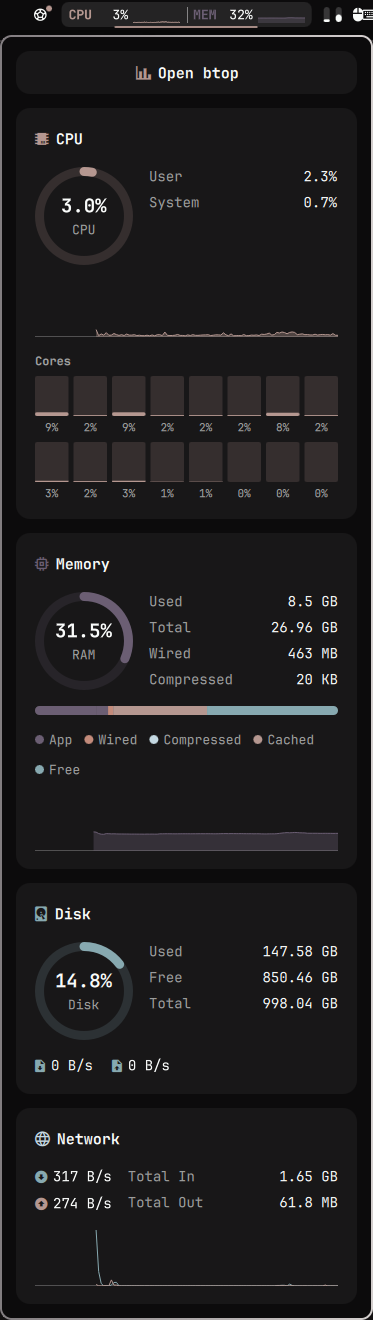
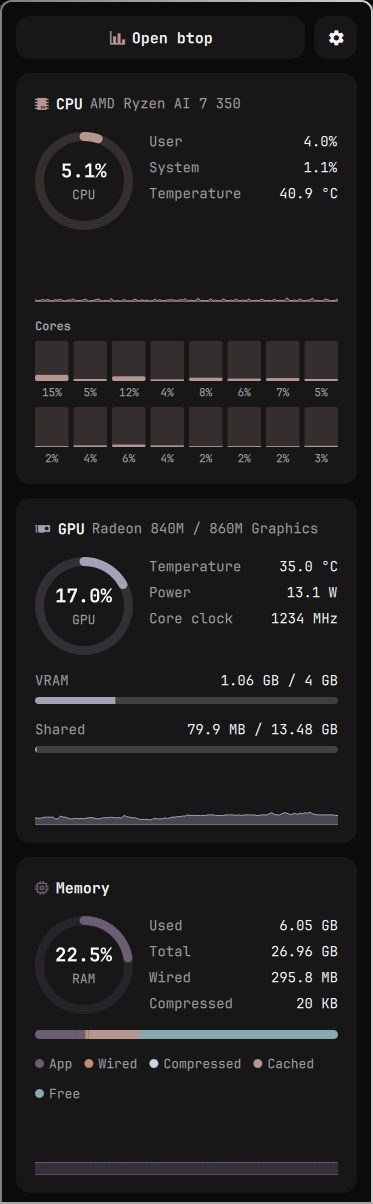
feat: add a GPU module to the bar and in-panel bar settings (#3)

diff --git a/Panel.qml b/Panel.qml
@@ -7,8 +7,8 @@ import qs.Ui
 import "Model.js" as Model
 
 // System Monitor: an Omarchy port of the macOS menu bar app
-// (github.com/juancasanueva/SWIFTUI_system_monitor). The bar shows CPU and
-// memory with a sparkline each; the panel shows the CPU, GPU, Memory, Disk
+// (github.com/juancasanueva/SWIFTUI_system_monitor). The bar shows CPU, GPU
+// and memory with a sparkline each; the panel shows the CPU, GPU, Memory, Disk
 // and Network cards.
 Panel {
   id: root
@@ -17,12 +17,8 @@ Panel {
 
   readonly property bool showCpu: setting("showCpu", true) !== false
   readonly property bool showMemory: setting("showMemory", true) !== false
-  readonly property var barModules: {
-    var list = []
-    if (root.showCpu) list.push("cpu")
-    if (root.showMemory) list.push("memory")
-    return list
-  }
+  readonly property bool showGpu: setting("showGpu", true) !== false
+  readonly property var barModules: Model.barModules(root.showCpu, root.showMemory, root.showGpu, root.gpu !== null)
 
   readonly property string fontFamily: root.bar ? root.bar.fontFamily : Style.font.family
   readonly property string dp: Qt.locale().decimalPoint
@@ -234,7 +230,32 @@ Panel {
     refreshDisk()
   }
 
-  onOpenedChanged: if (root.opened) root.refreshDisk()
+  onOpenedChanged: {
+    if (root.opened) root.refreshDisk()
+    else root.settingsOpen = false
+  }
+
+  // --- settings --------------------------------------------------------------
+
+  property bool settingsOpen: false
+  property string settingsStatus: ""
+
+  // Saved through the shell into this widget's shell.json entry; the host
+  // hands the new entry back as `settings`, which moves the bar and switches.
+  function setBarSwitch(key, value) {
+    if (Model.shown(root.settings, key) === value) return
+    var next = Model.withBarSetting(root.settings, key, value, root.gpu !== null)
+    if (!next) {
+      root.settingsStatus = "At least one module stays on the bar"
+      return
+    }
+    var api = root.bar ? root.bar.shell : null
+    if (!api || typeof api.updateEntryInline !== "function") {
+      root.settingsStatus = "Could not save: no shell connection"
+      return
+    }
+    root.settingsStatus = api.updateEntryInline(root.moduleName, next) === true ? "" : "Could not save the setting"
+  }
 
   // Kernel-generated files of a few kilobytes; a blocking read is immediate.
   FileView { id: statFile; path: "/proc/stat"; blockAllReads: true; printErrors: false }
@@ -318,14 +339,18 @@ Panel {
   implicitWidth: button.implicitWidth
   implicitHeight: button.implicitHeight
 
-  function moduleLabel(module) { return module === "cpu" ? "CPU" : "MEM" }
-  function moduleAccent(module) { return module === "cpu" ? root.pal.cpuAccent : root.pal.memAccent }
+  function moduleLabel(module) { return module === "cpu" ? "CPU" : (module === "gpu" ? "GPU" : "MEM") }
+  function moduleAccent(module) {
+    if (module === "cpu") return root.pal.cpuAccent
+    return module === "gpu" ? root.pal.gpuAccent : root.pal.memAccent
+  }
   function moduleFraction(module) {
     if (module === "cpu") return root.cpu ? root.cpu.total : 0
+    if (module === "gpu") return root.gpu ? root.gpu.busy : 0
     return root.memory ? root.memory.fraction : 0
   }
   function moduleSamples(module) {
-    var history = module === "cpu" ? root.cpuHistory : root.memoryHistory
+    var history = module === "cpu" ? root.cpuHistory : (module === "gpu" ? root.gpuHistory : root.memoryHistory)
     return history.slice(Math.max(0, history.length - Model.BAR_SAMPLES))
   }
 
@@ -337,7 +362,7 @@ Panel {
     hasVisualContent: root.barModules.length > 0
     fixedWidth: vertical ? -1 : barCard.width + Style.space(8)
     fixedHeight: vertical ? barColumn.implicitHeight + Style.space(12) : -1
-    tooltipText: Model.tooltip(root.cpu, root.memory, root.dp) + "\nClick for details · Right-click: btop"
+    tooltipText: Model.tooltip(root.cpu, root.memory, root.gpu, root.dp) + "\nClick for details · Right-click: btop"
     onPressed: function(b) {
       if (b === Qt.RightButton) root.openBtop()
       else root.toggle()
@@ -494,52 +519,86 @@ Panel {
             width: parent.width
             spacing: Style.space(12)
 
-            Rectangle {
-              id: btopButton
+            Row {
               width: cards.width
-              height: btopLabel.implicitHeight + Style.space(20)
-              radius: Style.space(12)
-              color: btopMouse.containsMouse ? Qt.alpha(root.pal.textPrimary, 0.10) : root.pal.cardBackground
+              spacing: Style.space(8)
 
-              Row {
-                anchors.centerIn: parent
-                spacing: Style.space(6)
+              Rectangle {
+                id: btopButton
+                width: cards.width - settingsButton.width - parent.spacing
+                height: btopLabel.implicitHeight + Style.space(20)
+                radius: Style.space(12)
+                color: btopMouse.containsMouse ? Qt.alpha(root.pal.textPrimary, 0.10) : root.pal.cardBackground
 
-                Text {
-                  textFormat: Text.PlainText
-                  text: Model.glyphs.activity
-                  color: root.pal.cpuAccent
-                  font.family: root.fontFamily
-                  font.pixelSize: Style.space(15)
-                  anchors.verticalCenter: parent.verticalCenter
+                Row {
+                  anchors.centerIn: parent
+                  spacing: Style.space(6)
+
+                  Text {
+                    textFormat: Text.PlainText
+                    text: Model.glyphs.activity
+                    color: root.pal.cpuAccent
+                    font.family: root.fontFamily
+                    font.pixelSize: Style.space(15)
+                    anchors.verticalCenter: parent.verticalCenter
+                  }
+
+                  Text {
+                    id: btopLabel
+                    textFormat: Text.PlainText
+                    text: "Open btop"
+                    color: root.pal.textPrimary
+                    font.family: root.fontFamily
+                    font.pixelSize: Style.space(13)
+                    font.weight: Font.DemiBold
+                    anchors.verticalCenter: parent.verticalCenter
+                  }
                 }
 
-                Text {
-                  id: btopLabel
-                  textFormat: Text.PlainText
-                  text: "Open btop"
-                  color: root.pal.textPrimary
-                  font.family: root.fontFamily
-                  font.pixelSize: Style.space(13)
-                  font.weight: Font.DemiBold
-                  anchors.verticalCenter: parent.verticalCenter
+                MouseArea {
+                  id: btopMouse
+                  anchors.fill: parent
+                  hoverEnabled: true
+                  cursorShape: Qt.PointingHandCursor
+                  onClicked: root.openBtop()
                 }
               }
 
-              MouseArea {
-                id: btopMouse
-                anchors.fill: parent
-                hoverEnabled: true
-                cursorShape: Qt.PointingHandCursor
-                onClicked: root.openBtop()
+              Rectangle {
+                id: settingsButton
+                width: height
+                height: btopButton.height
+                radius: Style.space(12)
+                color: settingsMouse.containsMouse || root.settingsOpen ? Qt.alpha(root.pal.textPrimary, 0.10) : root.pal.cardBackground
+
+                Text {
+                  anchors.centerIn: parent
+                  textFormat: Text.PlainText
+                  text: Model.glyphs.settings
+                  color: root.settingsOpen ? root.pal.cpuAccent : root.pal.textPrimary
+                  font.family: root.fontFamily
+                  font.pixelSize: Style.space(15)
+                }
+
+                MouseArea {
+                  id: settingsMouse
+                  anchors.fill: parent
+                  hoverEnabled: true
+                  cursorShape: Qt.PointingHandCursor
+                  onClicked: {
+                    root.settingsStatus = ""
+                    root.settingsOpen = !root.settingsOpen
+                  }
+                }
               }
             }
 
-            CpuCard { width: cards.width }
-            GpuCard { width: cards.width; visible: root.gpu !== null }
-            MemoryCard { width: cards.width }
-            DiskCard { width: cards.width }
-            NetworkCard { width: cards.width }
+            SettingsCard { width: cards.width; visible: root.settingsOpen }
+            CpuCard { width: cards.width; visible: !root.settingsOpen }
+            GpuCard { width: cards.width; visible: !root.settingsOpen && root.gpu !== null }
+            MemoryCard { width: cards.width; visible: !root.settingsOpen }
+            DiskCard { width: cards.width; visible: !root.settingsOpen }
+            NetworkCard { width: cards.width; visible: !root.settingsOpen }
           }
         }
       }
@@ -756,6 +815,67 @@ Panel {
           }
         }
       }
+    }
+  }
+
+  component SettingsCard: Card {
+    CardHeader { width: parent.width; glyph: Model.glyphs.settings; title: "Bar"; detail: "Modules shown in the bar"; accent: root.pal.cpuAccent }
+
+    Repeater {
+      model: Model.barSwitches(root.settings, root.gpu !== null)
+
+      Item {
+        required property var modelData
+        width: parent.width
+        height: Math.max(switchLabel.implicitHeight, toggle.height)
+        opacity: modelData.enabled ? 1 : 0.5
+
+        Column {
+          anchors.left: parent.left
+          anchors.verticalCenter: parent.verticalCenter
+          spacing: Style.space(2)
+
+          Text {
+            id: switchLabel
+            textFormat: Text.PlainText
+            text: modelData.label
+            color: root.pal.textPrimary
+            font.family: root.fontFamily
+            font.pixelSize: Style.space(13)
+          }
+
+          Text {
+            visible: modelData.note !== ""
+            textFormat: Text.PlainText
+            text: modelData.note
+            color: root.pal.textSecondary
+            font.family: root.fontFamily
+            font.pixelSize: Style.space(11)
+          }
+        }
+
+        ToggleSwitch {
+          id: toggle
+          anchors.right: parent.right
+          anchors.verticalCenter: parent.verticalCenter
+          checked: modelData.checked
+          interactive: modelData.enabled
+          foreground: root.pal.textPrimary
+          accent: root.pal.cpuAccent
+          onToggled: root.setBarSwitch(modelData.key, !modelData.checked)
+        }
+      }
+    }
+
+    Text {
+      visible: root.settingsStatus !== ""
+      width: parent.width
+      wrapMode: Text.Wrap
+      textFormat: Text.PlainText
+      text: root.settingsStatus
+      color: Commons.Color.urgent
+      font.family: root.fontFamily
+      font.pixelSize: Style.space(11)
     }
   }
 

diff --git a/Model.js b/Model.js
@@ -88,7 +88,8 @@ var glyphs = {
   write: String.fromCodePoint(0xF0A4D),     // md-file_upload
   download: String.fromCodePoint(0xF0047),  // md-arrow_down_bold_circle
   upload: String.fromCodePoint(0xF005F),    // md-arrow_up_bold_circle
-  activity: String.fromCodePoint(0xF0128)   // md-chart_line
+  activity: String.fromCodePoint(0xF0128),  // md-chart_line
+  settings: String.fromCodePoint(0xF0493)   // md-cog
 }
 
 var BAR_SAMPLES = 60
@@ -709,6 +710,55 @@ function throughput(bytesPerSecond, dp) {
   return decimal(value, unit === 0 ? 0 : 1, dp) + " " + units[unit] + "/s"
 }
 
-function tooltip(cpu, memory, dp) {
-  return "CPU " + percent1(cpu ? cpu.total : 0, dp) + " · Memory " + percent1(memory ? memory.fraction : 0, dp)
+// Bar modules in panel order. The GPU module needs a GPU the card can read.
+function barModules(showCpu, showMemory, showGpu, hasGpu) {
+  var list = []
+  if (showCpu) list.push("cpu")
+  if (showGpu && hasGpu) list.push("gpu")
+  if (showMemory) list.push("memory")
+  return list
+}
+
+// --- Bar settings ----------------------------------------------------------
+
+var BAR_SWITCHES = [
+  { key: "showCpu", label: "CPU" },
+  { key: "showGpu", label: "GPU" },
+  { key: "showMemory", label: "MEM" }
+]
+
+// A missing key means shown, as the manifest defaults say.
+function shown(settings, key) {
+  return !settings || settings[key] !== false
+}
+
+function barSwitches(settings, hasGpu) {
+  var out = []
+  for (var i = 0; i < BAR_SWITCHES.length; i++) {
+    var s = BAR_SWITCHES[i]
+    var noGpu = s.key === "showGpu" && !hasGpu
+    out.push({ key: s.key, label: s.label, checked: shown(settings, s.key), enabled: !noGpu, note: noGpu ? "No supported GPU" : "" })
+  }
+  return out
+}
+
+// The widget's whole shell.json entry (without its id) with one bar switch
+// changed; the host replaces the entry rather than merging. Null for an
+// unknown key, or when the change would leave the bar empty: the widget would
+// vanish and the panel holding these switches with it.
+function withBarSetting(settings, key, value, hasGpu) {
+  var known = false
+  for (var i = 0; i < BAR_SWITCHES.length; i++) if (BAR_SWITCHES[i].key === key) known = true
+  if (!known) return null
+  var next = {}
+  for (var k in settings) next[k] = settings[k]
+  next[key] = value === true
+  if (barModules(shown(next, "showCpu"), shown(next, "showMemory"), shown(next, "showGpu"), hasGpu).length === 0) return null
+  return next
+}
+
+function tooltip(cpu, memory, gpu, dp) {
+  var text = "CPU " + percent1(cpu ? cpu.total : 0, dp)
+  if (gpu) text += " · GPU " + percent1(gpu.busy, dp)
+  return text + " · Memory " + percent1(memory ? memory.fraction : 0, dp)
 }

diff --git a/README.md b/README.md
@@ -1,20 +1,21 @@
 # System Monitor
 
-CPU and memory with live sparklines in the Omarchy bar, and a panel with CPU, GPU, Memory, Disk and Network cards. A port of the macOS menu bar app [SWIFTUI_system_monitor](https://github.com/juancasanueva/SWIFTUI_system_monitor), with the same layout and number formats, coloured by your current Omarchy theme.
+CPU, GPU and memory with live sparklines in the Omarchy bar, and a panel with CPU, GPU, Memory, Disk and Network cards. A port of the macOS menu bar app [SWIFTUI_system_monitor](https://github.com/juancasanueva/SWIFTUI_system_monitor), with the same layout and number formats, coloured by your current Omarchy theme.
 
-<p align="center"><img src="preview.png?v=4" alt="System Monitor panel: CPU, Memory, Disk and Network cards" width="360"></p>
+<p align="center"><img src="preview.png?v=5" alt="System Monitor panel: CPU, GPU and Memory cards" width="360"></p>
 
 ## What it shows
 
-- **Bar**: `CPU 12% ▁▂▃` `|` `MEM 59% ▃▃▄` on a small card. Each value has a fixed width, so the bar never shifts. The last 60 samples feed each sparkline.
+- **Bar**: `CPU 12% ▁▂▃` `|` `GPU 16% ▁▁▂` `|` `MEM 59% ▃▃▄` on a small card. The GPU module appears only on AMD GPUs. Each value has a fixed width, so the bar never shifts. The last 60 samples feed each sparkline.
 - **CPU**: the CPU's model in the header, total usage ring, User, System and package temperature, a two-minute history graph, and one bar per logical core. On Intel hybrid CPUs, P-Cores and E-Cores are shown as separate groups with their own averages.
 - **GPU**: the GPU's name in the header, load ring, temperature, power draw and core clock (plus memory busy, memory clock and voltage where the GPU reports them), VRAM and shared memory with a usage bar each, and a history graph. AMD GPUs (`amdgpu` driver) only; the card is hidden on other GPUs.
 - **Memory**: usage ring, Used, Total, Wired and Compressed, a stacked bar (App, Wired, Compressed, Cached, Free) with its legend, and a history graph.
 - **Disk**: usage ring for `/`, Used, Free and Total, and read and write throughput.
 - **Network**: download and upload rates, totals since boot, and a shared-scale graph of both.
+- **Settings**: the gear next to **Open btop** switches the panel to the bar settings, where CPU, GPU and MEM can each be shown or hidden. Changes apply right away and are saved in `shell.json`.
 - **btop**: right-click the widget, or use **Open btop** at the top of the panel, to open btop in your terminal as a tiled window. If btop is already open from the widget, its window is focused instead. It uses Omarchy's TUI launcher with its own app id (`io.github.juancasanueva.btop`), so Omarchy's float rule for Super+Ctrl+T btop does not apply.
 
-The widget samples every 2 seconds, or every second while the panel is open. Disk capacity refreshes every 30 seconds and whenever the panel opens.
+When the cards do not fit the screen, the panel scrolls. The widget samples every 2 seconds, or every second while the panel is open. Disk capacity refreshes every 30 seconds and whenever the panel opens.
 
 ## Colours
 
@@ -58,18 +59,19 @@ If a theme defines none of these, its accent colour is used (and its urgent colo
 omarchy plugin add https://github.com/juancasanueva/omarchy-system-monitor.git --enable
 ```
 
-Settings, in the widget's `shell.json` entry or under Setup > Bar:
+Settings: click the gear next to **Open btop** in the panel and switch CPU, GPU and MEM on or off for the bar. The last module on the bar cannot be switched off, so the widget never disappears. The same keys can be set in the widget's `shell.json` entry or under Setup > Bar:
 
 | Key | Default | Effect |
 | --- | --- | --- |
 | `showCpu` | `true` | Show the CPU module in the bar |
 | `showMemory` | `true` | Show the MEM module in the bar |
+| `showGpu` | `true` | Show the GPU module in the bar (AMD GPUs only; it never appears without one) |
 
 Click the widget, or run `omarchy-shell juancasanueva.system-monitor toggle`, to open the panel. Esc closes it. Right-click the widget to open btop.
 
 ## Privacy and side effects
 
-The plugin only reads kernel files under `/proc` and `/sys`, the PCI ID database `/usr/share/hwdata/pci.ids`, the current theme's `colors.toml`, and runs `/usr/bin/df` with a fixed argument list. Opening btop runs `/usr/bin/omarchy-launch-or-focus-tui --app-id=io.github.juancasanueva.btop btop`, which ships with Omarchy, and only when you ask for it. It makes no network requests, writes no files and stores no state. History lives in memory and resets when the shell restarts.
+The plugin only reads kernel files under `/proc` and `/sys`, the PCI ID database `/usr/share/hwdata/pci.ids`, the current theme's `colors.toml`, and runs `/usr/bin/df` with a fixed argument list. Opening btop runs `/usr/bin/omarchy-launch-or-focus-tui --app-id=io.github.juancasanueva.btop btop`, which ships with Omarchy, and only when you ask for it. It makes no network requests and writes no files of its own. The settings switches save through the shell's own settings API, which rewrites only this widget's entry in `shell.json`. History lives in memory and resets when the shell restarts.
 
 ## Removing
 
